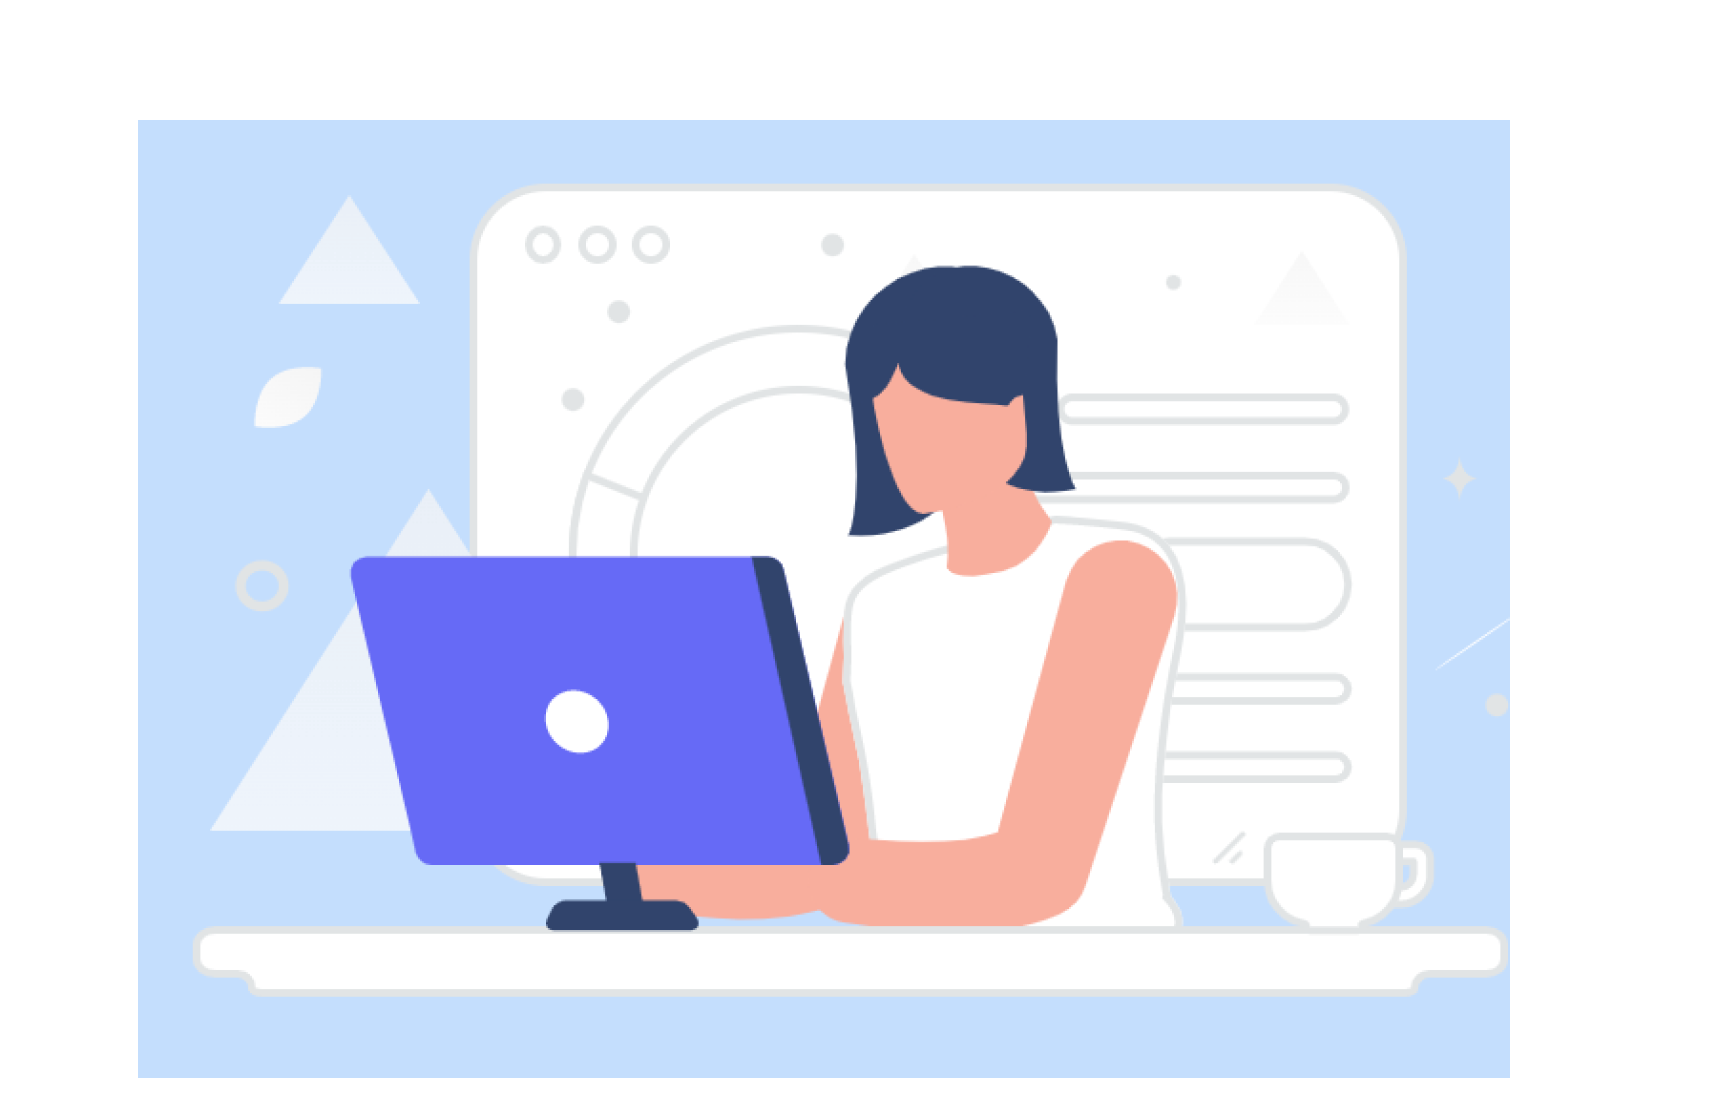
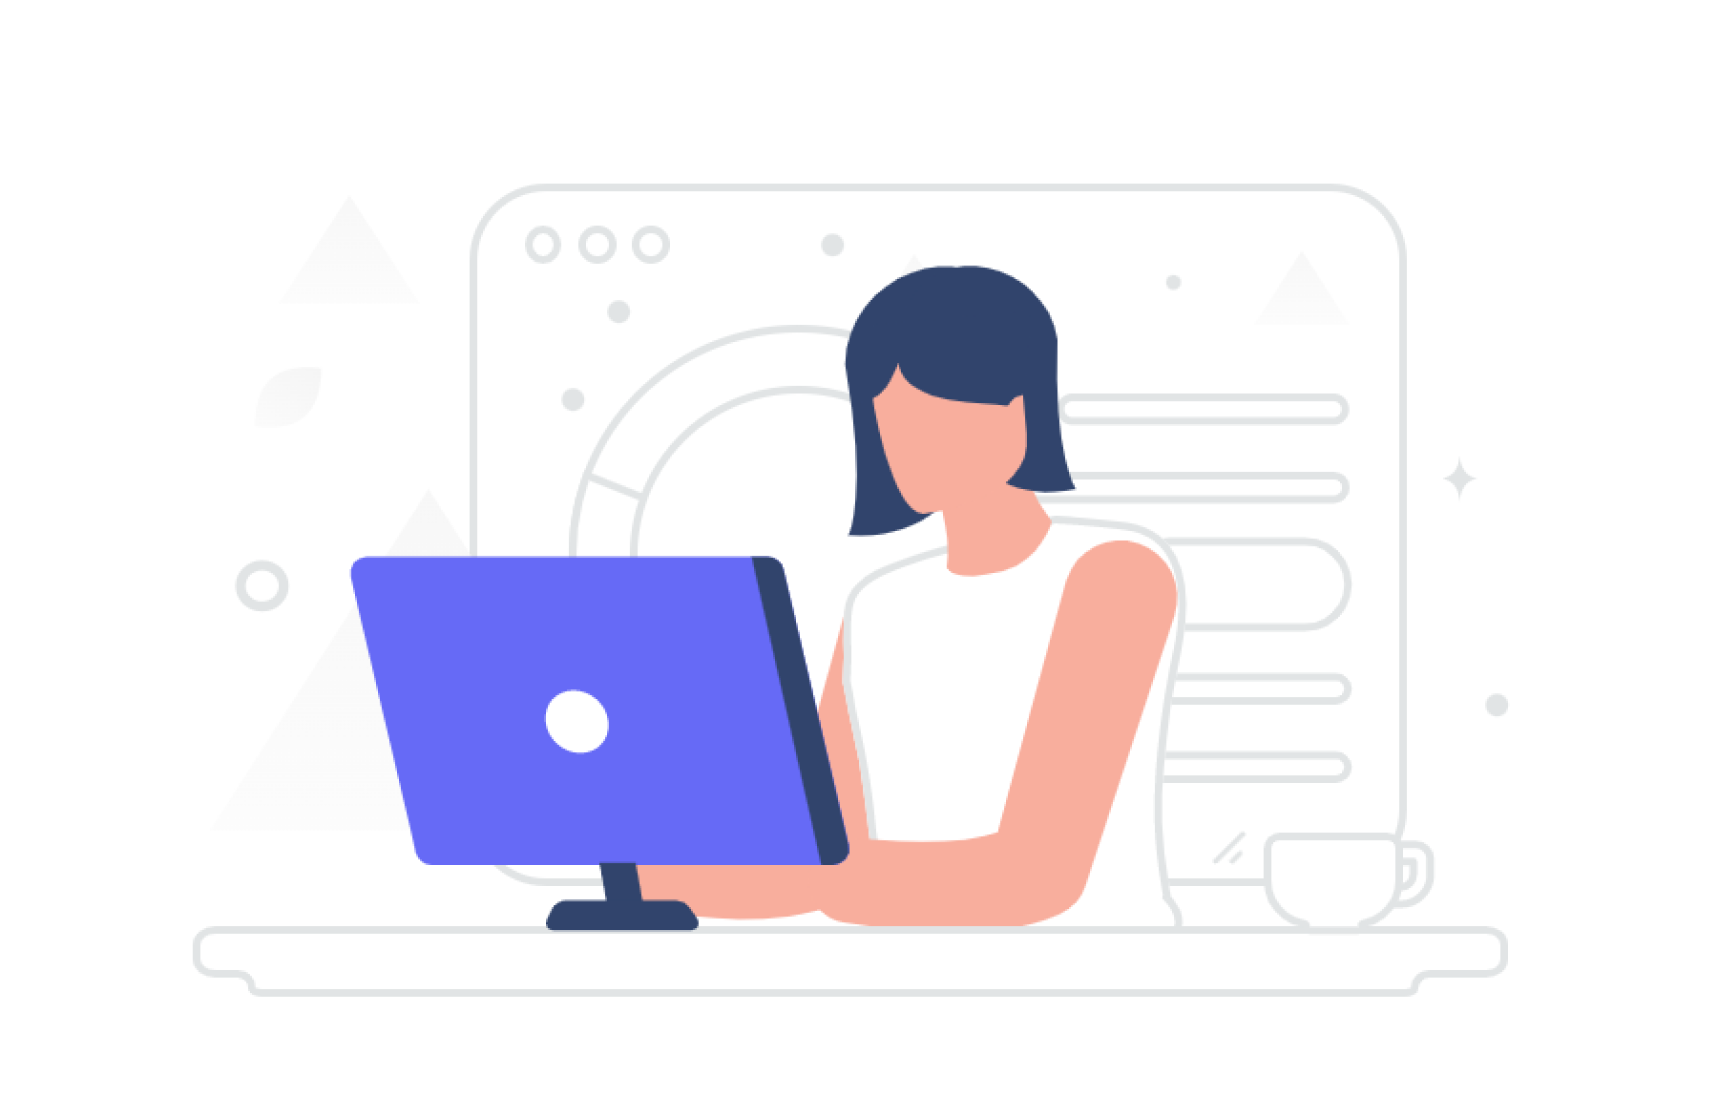
section3完成(仮)

Changed region(s): [[0.0617, 0.0924, 0.8946, 0.9855], [0.6787, 0.8007, 0.7404, 0.8623], [0.401, 0.8315, 0.4936, 0.8623]]

diff --git a/index.html b/index.html
@@ -86,7 +86,7 @@
                         <h2 id="s2-2" class="s2-udline-2">Work together</h2>
                         <p>With whitepace, share your notes with your colleagues and collaborate on them.
                             You can also publish a note to the internet and share the URL with others.</p>
-                        <button class="blue-btn" class="blue-btn" type=“button” onclick="location.href='#'">Try it
+                        <button class="blue-btn" type=“button” onclick="location.href='#'">Try it
                             now<img class="vector" src="./img/icon-vector.png" alt=""></button>
                     </div>
                     <div class="img-box">
@@ -106,11 +106,13 @@
                             screenshots as notes.
                         </p>
                         <a href="#">
-                            <button class="blue-btn">Let’s Go<img class="vector" src="./img/icon-vector.png"
+                            <button class="blue-btn" type=“button” onclick="location.href='#'">Let’s Go<img class="vector" src="./img/icon-vector.png"
                                     alt=""></button>
                         </a>
                     </div>
-                    <img src="./img/s3_img.png" alt="">
+                    <div class="img-box">
+                        <img src="./img/s3_img.png" alt="">
+                    </div>
                 </div>
             </div>
         </section>

diff --git a/assets/scss/style.scss b/assets/scss/style.scss
@@ -376,23 +376,44 @@ main{
         // }
     }
 
-    // .bgimg-s2 {
-    //     // position: absolute;
-    //     // top: 11.85%;
-    //     // display: block;
-    //     // width: 602.84px;
-    //     // height: 448.52px;
-    //     // object-fit: cover;
-
-
-    // }
+   
 }
 
-.section-wrap {
-    margin-top: 4.25rem;
+// .section-wrap {
+//     margin-top: 4.25rem;
+// }
+
+// section3
+.s3{
+    height: 759px;
+    .section-wrap{
+        height: 63.1%;
+    }
+    .container{
+     justify-content: space-between;
+     height: 100%;
+    }
+    .container-box{
+        width: 48%;
+    }
+    h2{
+        margin-top: 13.2%;
+        
+    }
+    .img-box{
+        width: 46.3%;
+        height: 100%;
+        border: 1px solid #a7cefc;
+        background-color: #a7cefc;
+       
+        img{
+            width: auto;
+            height: 100%;
+            
+        }
+    }
+
 }
-
-
 
 // section4
 .s4 {

diff --git a/assets/css/style.css b/assets/css/style.css
@@ -249,8 +249,31 @@ main button {
   background-position: bottom;
 }
 
-.section-wrap {
-  margin-top: 4.25rem;
+.s3 {
+  height: 759px;
+}
+.s3 .section-wrap {
+  height: 63.1%;
+}
+.s3 .container {
+  justify-content: space-between;
+  height: 100%;
+}
+.s3 .container-box {
+  width: 48%;
+}
+.s3 h2 {
+  margin-top: 13.2%;
+}
+.s3 .img-box {
+  width: 46.3%;
+  height: 100%;
+  border: 1px solid #a7cefc;
+  background-color: #a7cefc;
+}
+.s3 .img-box img {
+  width: auto;
+  height: 100%;
 }
 
 .s4 {
